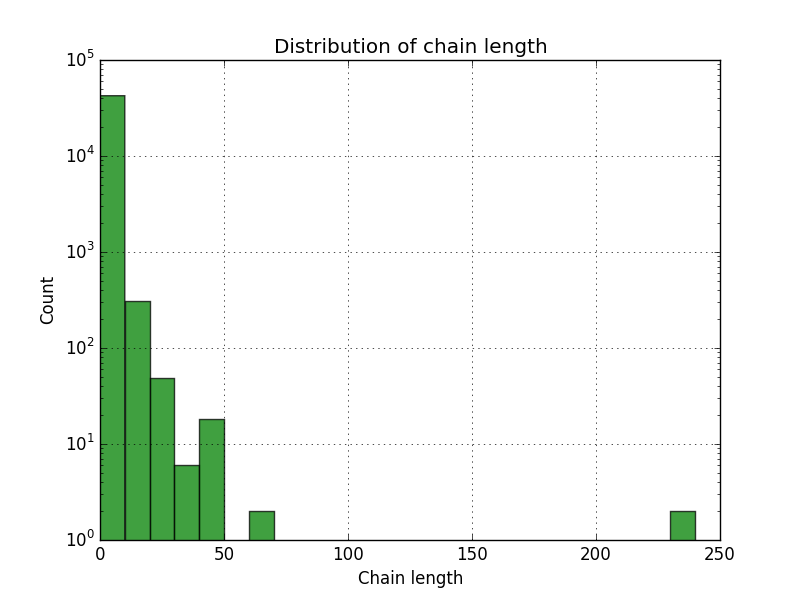
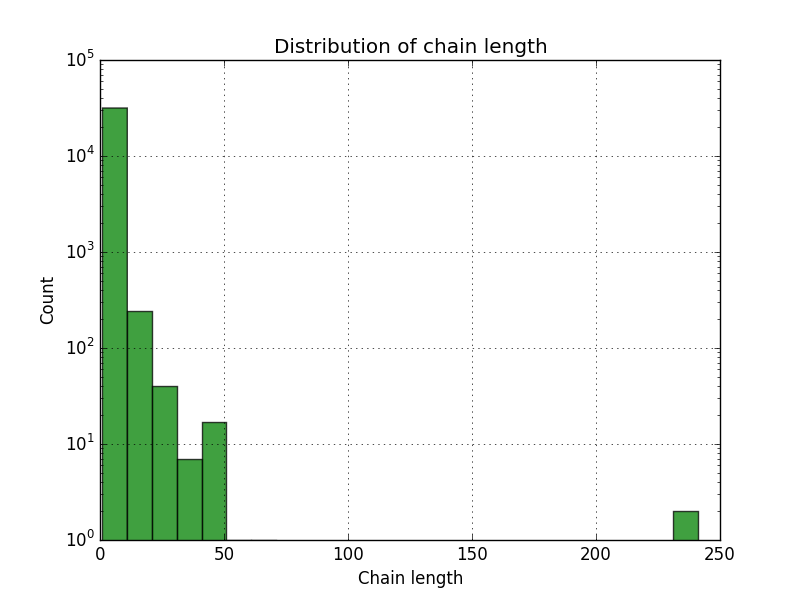
Added a few numerical values. Will add more.

Changed region(s): [[0.125, 0.15, 0.3438, 0.9], [0.8125, 0.84, 0.875, 0.9]]

diff --git a/reposts_graph.py b/reposts_graph.py
@@ -30,15 +30,22 @@ with open('final_filtered.csv') as f:
             else:
                 counts[post_subreddit]['repost'] += 1
             #lengths.append(len([item for item in line if item[0] == original_author]))
-        else:
-            counts[post_subreddit]['first'] += 1
-
+        #else:
+            #counts[post_subreddit]['first'] += 1
+    for subr in all_subreddits:
+        print "Among the posts collected for "+subr+" ",counts[subr]['first']," of them were first posts whereas ",counts[subr]['repost']," of them were reposts."
+        print "Percentage of reposts in "+subr+" = ",float(counts[subr]['repost'])/(counts[subr]['first']+counts[subr]['repost'])*100
+        print ""
     X = range(12)
     repost = []
     original = []
+    subr_list = []
     for k in counts:
         repost.append(counts[k]['repost'])
         original.append(counts[k]['first'])
+        subr_list.append(k)
+    #repost=repost[::-1]
+    #original=original[::-1]
     #print len(repost)
     #print original
     a = pyplot.bar(X, original, color = 'b', log=True)
@@ -47,11 +54,12 @@ with open('final_filtered.csv') as f:
     pyplot.xlabel('Subreddit')
     pyplot.ylabel('Number of posts')
     pyplot.title('Number of reposts by subreddit')
-    pyplot.xticks(X,all_subreddits, size='10', rotation=45)
+    #pyplot.xticks(X,all_subreddits, size='10', rotation=45)
+    pyplot.xticks(X,subr_list,size='10',rotation=45)
     pyplot.tight_layout(pad=1.2)
     #pyplot.margins(0.9)
     pyplot.legend([a[0],b[0]],['original','repost'])
-    pyplot.savefig('reposts' + '.png')
+    pyplot.savefig('reposts2' + '.png')
 
 '''
 with open('data2.csv', 'r') as f:

diff --git a/lengths.py b/lengths.py
@@ -13,14 +13,16 @@ with open('final_filtered.csv') as f:
         created_time = float(created_time)
         score = int(score)
         line = json.loads(json_info)
-        lengths.append(len(line))
+        if len(line)>0:
+            lengths.append(len(line))
 
         #if len(line) == 235:
          #   print link + " " + author + "\n"
 
     c = Counter(lengths)
     #pprint.pprint(sorted(c.items()))
-
+    print "Average chain length ",np.mean(lengths)
+    print "Standard deviation of chain length ",np.std(lengths)
     x = list(c.elements())
     #print x
     #bins = [i * 1 for i in range(10)]

diff --git a/left_right_chain.py b/left_right_chain.py
@@ -33,6 +33,13 @@ with open('final_filtered.csv') as f:
     #print x
     #bins = [i * 1 for i in range(10)]
     #print sorted(left_chain)
+
+    print "Average left chain length ",np.mean(left_chain)
+    print "Standard deviation of left chain length ",np.std(left_chain)
+    print "Average right chain length ",np.mean(right_chain)
+    print "Standard deviation of right chain length ",np.std(right_chain)
+
+
     pyplot.hist(left_chain, bins=np.arange(min(left_chain), max(left_chain) + 5, 5), facecolor='green', alpha=0.75, log=True)
     pyplot.xlabel('Left Chain Length')
     pyplot.ylabel('Count')

diff --git a/original_author_distribution.py b/original_author_distribution.py
@@ -20,6 +20,8 @@ with open('final_filtered.csv') as f:
             #print original_author
             lengths.append(len([item for item in line if item[0] == original_author]))
     #print lengths
+    arr=np.array(lengths)
+    print "The original author posts more than once ",float(len(arr[arr>1]))/len(arr)*100,"%% times"
     c = Counter(lengths)
     c[1] = 0
     x = list(c.elements())

diff --git a/unique_authors.py b/unique_authors.py
@@ -25,6 +25,8 @@ with open('final_filtered.csv') as f:
             lengths.append(len(line))
     #print lengths
     #print uniqueAuthorsNo
+    arr=np.array(uniqueAuthorsNo)
+    print "Around ",float(len(arr[arr>0.5]))/len(arr)*100,"%% of times, the reposts by different authors is more than the same author."
     c = Counter(uniqueAuthorsNo)
 
     x = list(c.elements())
